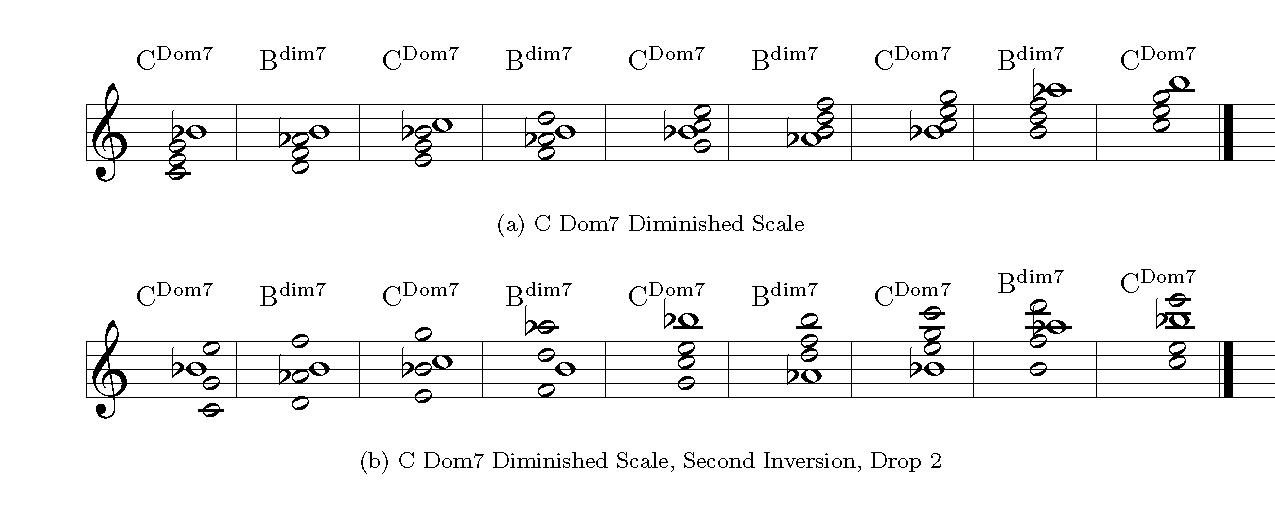
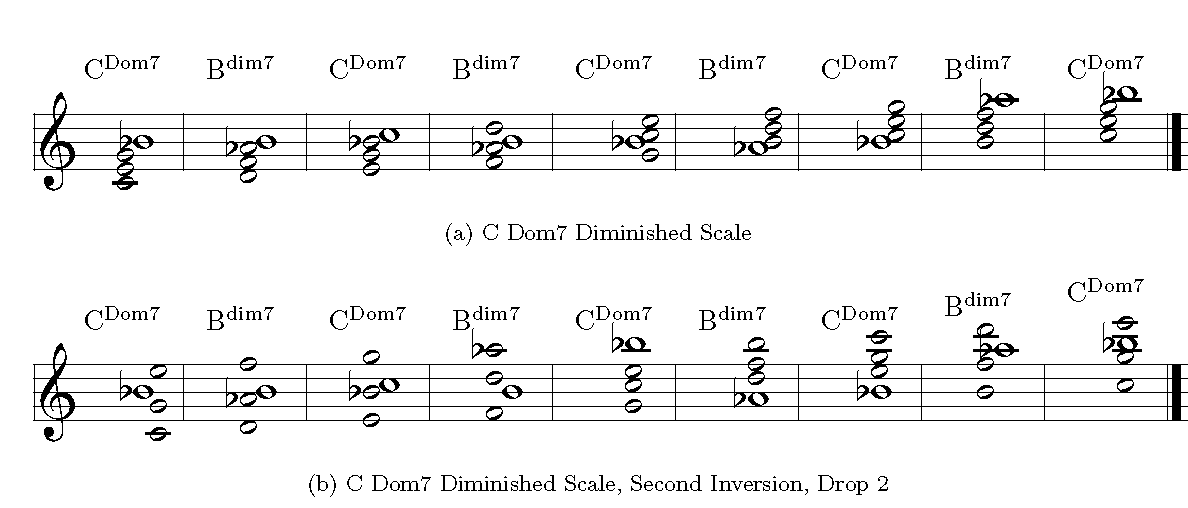
Latest build deployed.

diff --git a/ch-dim6scale.html b/ch-dim6scale.html
@@ -186,12 +186,14 @@ window.MathJax = {
 <figcaption><span class="type">Figure</span><span class="space"> </span><span class="codenumber">10.0.1<span class="period">.</span></span><span class="space"> </span>Chords built on Major 6th Diminished Scale</figcaption></figure><div class="para" id="ch-dim6scale-5">Minor 6 Diminished = Minor 6 arpeggio + Diminished 7 arpeggios up a whole step</div>
 <div class="para" id="ch-dim6scale-6">C E♭ G A + D F A♭ C♭ = C D E♭ F G A♭ A B</div>
 <figure class="figure figure-like" id="min-6dim"><div class="image-box" style="width: 100%; margin-left: 0%; margin-right: 0%;"><img src="external/min-6dim.png" class="contained"></div>
-<figcaption><span class="type">Figure</span><span class="space"> </span><span class="codenumber">10.0.2<span class="period">.</span></span><span class="space"> </span>Chords built on Minor 6th Diminished Scale</figcaption></figure><div class="para" id="ch-dim6scale-8">Dominant 7 diminished = Dominant 7 arpeggio + Diminished 7 arpeggio up a whole step</div>
-<div class="para" id="ch-dim6scale-9">C E G B♭ + D F A♭ C♭ = C D E F G A♭ B♭ B</div>
+<figcaption><span class="type">Figure</span><span class="space"> </span><span class="codenumber">10.0.2<span class="period">.</span></span><span class="space"> </span>Chords built on Minor 6th Diminished Scale</figcaption></figure><div class="para" id="ch-dim6scale-8">Major 7 diminished = Major 7 arpeggio + Diminished 7 arpeggio up a whole step</div>
+<div class="para" id="ch-dim6scale-9">C E G B + D F A♭B at = C D E F G A♭ B</div>
 <figure class="figure figure-like" id="maj7-dim"><div class="image-box" style="width: 100%; margin-left: 0%; margin-right: 0%;"><img src="external/6dim-maj7.png" class="contained"></div>
-<figcaption><span class="type">Figure</span><span class="space"> </span><span class="codenumber">10.0.3<span class="period">.</span></span><span class="space"> </span>Chords built on 7th Diminished Scale</figcaption></figure><figure class="figure figure-like" id="CDom7-dim"><div class="image-box" style="width: 100%; margin-left: 0%; margin-right: 0%;"><img src="external/CDom7Dim_Scale.png" class="contained"></div>
-<figcaption><span class="type">Figure</span><span class="space"> </span><span class="codenumber">10.0.4<span class="period">.</span></span><span class="space"> </span>Chords built on C Dom7 Diminished Scale</figcaption></figure><div class="para" id="ch-dim6scale-12">Dominant 7♭5 diminished = Dominant 7♭5 arpeggio + Diminished 7 arpeggio up a whole step</div>
-<div class="para" id="ch-dim6scale-13">C E G♭ B♭ + D F A♭ C♭ = C D E F G♭ A♭ B♭ B</div>
+<figcaption><span class="type">Figure</span><span class="space"> </span><span class="codenumber">10.0.3<span class="period">.</span></span><span class="space"> </span>Chords built on 7th Diminished Scale</figcaption></figure><div class="para" id="ch-dim6scale-11">Dominant 7 diminished = Dominant 7 arpeggio + Diminished 7 arpeggio up a whole step</div>
+<div class="para" id="ch-dim6scale-12">C E G B♭ + D F A♭ C♭ = C D E F G A♭ B♭ B</div>
+<figure class="figure figure-like" id="CDom7-dim"><div class="image-box" style="width: 100%; margin-left: 0%; margin-right: 0%;"><img src="external/CDom7Dim_Scale.png" class="contained"></div>
+<figcaption><span class="type">Figure</span><span class="space"> </span><span class="codenumber">10.0.4<span class="period">.</span></span><span class="space"> </span>Chords built on C Dom7 Diminished Scale</figcaption></figure><div class="para" id="ch-dim6scale-14">Dominant 7♭5 diminished = Dominant 7♭5 arpeggio + Diminished 7 arpeggio up a whole step</div>
+<div class="para" id="ch-dim6scale-15">C E G♭ B♭ + D F A♭ C♭ = C D E F G♭ A♭ B♭ B</div>
 <figure class="figure figure-like" id="min7flat5dim"><div class="image-box" style="width: 100%; margin-left: 0%; margin-right: 0%;"><img src="external/6dim-m7.png" class="contained"></div>
 <figcaption><span class="type">Figure</span><span class="space"> </span><span class="codenumber">10.0.5<span class="period">.</span></span><span class="space"> </span>Chords built on Dominant 7♭5 Diminished Scale</figcaption></figure></section></div>
 <div class="ptx-content-footer">

diff --git a/lunr-pretext-search-index.js b/lunr-pretext-search-index.js
@@ -745,7 +745,7 @@ var ptx_lunr_docs = [
   "type": "Chapter",
   "number": "10",
   "title": "Dim 6 scale",
-  "body": " Dim 6 scale  Maj6 diminished = Maj6 arpeggio + Diminished arpeggio  C E G A + D F A C = C D E F G A A B   Chords built on Major 6th Diminished Scale     Minor 6 Diminished = Minor 6 arpeggio + Diminished 7 arpeggios up a whole step  C E G A + D F A C = C D E F G A A B   Chords built on Minor 6th Diminished Scale     Dominant 7 diminished = Dominant 7 arpeggio + Diminished 7 arpeggio up a whole step  C E G B + D F A C = C D E F G A B B   Chords built on 7th Diminished Scale      Chords built on C Dom7 Diminished Scale     Dominant 7 5 diminished = Dominant 7 5 arpeggio + Diminished 7 arpeggio up a whole step  C E G B + D F A C = C D E F G A B B   Chords built on Dominant 7 5 Diminished Scale      "
+  "body": " Dim 6 scale  Maj6 diminished = Maj6 arpeggio + Diminished arpeggio  C E G A + D F A C = C D E F G A A B   Chords built on Major 6th Diminished Scale     Minor 6 Diminished = Minor 6 arpeggio + Diminished 7 arpeggios up a whole step  C E G A + D F A C = C D E F G A A B   Chords built on Minor 6th Diminished Scale     Major 7 diminished = Major 7 arpeggio + Diminished 7 arpeggio up a whole step  C E G B + D F A B at = C D E F G A B   Chords built on 7th Diminished Scale     Dominant 7 diminished = Dominant 7 arpeggio + Diminished 7 arpeggio up a whole step  C E G B + D F A C = C D E F G A B B   Chords built on C Dom7 Diminished Scale     Dominant 7 5 diminished = Dominant 7 5 arpeggio + Diminished 7 arpeggio up a whole step  C E G B + D F A C = C D E F G A B B   Chords built on Dominant 7 5 Diminished Scale      "
 },
 {
   "id": "maj-6dim",

diff --git a/frontmatter.html b/frontmatter.html
@@ -184,7 +184,7 @@ window.MathJax = {
 <div class="author-name">Peter Wilkens</div>
 <div class="author-info"><br></div>
 </div>
-<div class="date">October 29, 2024</div>
+<div class="date">October 30, 2024</div>
 <nav class="summary-links"><ul><li><a href="frontmatter-2.html" class="internal"><span class="title">Colophon</span></a></li></ul></nav></section></div>
 <div class="ptx-content-footer">
 <a class="previous-button button" href="my-book.html" title="Previous"><span class="icon material-symbols-outlined" aria-hidden="true">&#xe5cb;</span><span class="name">Prev</span></a><a class="top-button button" href="#" title="Top"><span class="icon material-symbols-outlined" aria-hidden="true">&#xe5ce;</span><span class="name">Top</span></a><a class="next-button button" href="frontmatter-2.html" title="Next"><span class="name">Next</span><span class="icon material-symbols-outlined" aria-hidden="true">&#xe5cc;</span></a>

diff --git a/index.html b/index.html
@@ -2,7 +2,7 @@
 <html>
 <!--********************************************-->
 <!--*       Generated from PreTeXt source      *-->
-<!--*       on 2024-10-29T15:58:08Z       *-->
+<!--*       on 2024-10-30T14:30:57Z       *-->
 <!--*   A recent stable commit (2022-07-01):   *-->
 <!--* 6c761d3dba23af92cba35001c852aac04ae99a5f *-->
 <!--*                                          *-->
